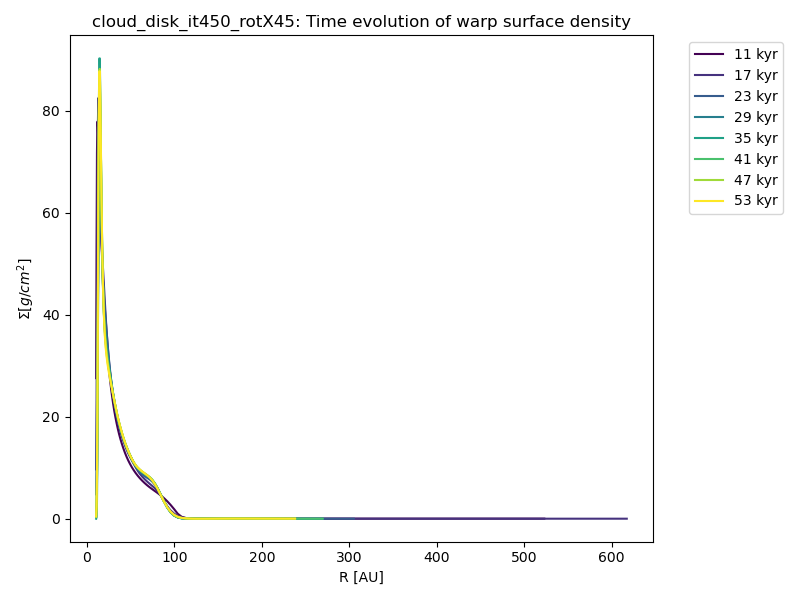
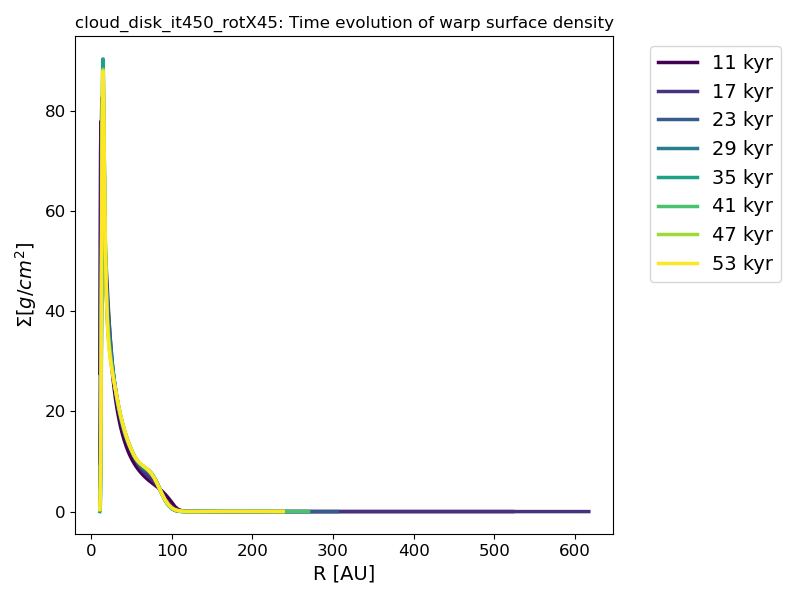
Mdotnet plots + paper-ready plot formatting

diff --git a/accretion.py b/accretion.py
@@ -7,6 +7,7 @@ from read import get_domain_spherical, get_data, load_par_file, get_param_value
 from analysis import calc_cell_volume, calc_mass, sph_to_cart, calc_simtime
 from check_mass import surf_dens_profile
 from mpl_toolkits.axes_grid1.inset_locator import inset_axes, mark_inset
+import matplotlib.colors as colors
 import astropy.constants as c
 import pandas as pd
 au = c.au.cgs.value
@@ -16,6 +17,14 @@ Mstar = 0.7 * Msun        # Mass of the primary star in IRAS 04125+2902 (Barbe
 dt = 1.87e7               # Timestep length of simulations in sec
 ninterm = 200             # Total number of timesteps between outputs in FARGO simulations
 stoky = 3.156e7 * 1e3     # 1 kyr in sec
+
+
+# Global plot formatting 
+plt.rcParams['lines.linewidth'] = 2.5
+plt.rcParams['axes.labelsize'] = 14     # x/y label size
+plt.rcParams['xtick.labelsize'] = 12     # x-tick label size
+plt.rcParams['ytick.labelsize'] = 12     # y-tick label size
+plt.rcParams['legend.fontsize'] = 10     # legend font size
 
 
 def scale_height(r, h0, R0, f):
@@ -359,7 +368,7 @@ def main():
     plt.savefig(f'{fig_imgs}/logMdot_vs_t_all_radii_all_zmax.png')
     plt.show()
 
-    # Defining subplots to plot inward accretion
+    # Defining subplots to plot outward accretion
     fig, axes = plt.subplots(2, 2, figsize=(8,6))
     axes = axes.flatten()
     plot_counter=0
@@ -410,6 +419,60 @@ def main():
     fig.suptitle(f"{sim_name}: Outward flux", fontsize=10, y=0.95)  
     fig.tight_layout()
     plt.savefig(f'{fig_imgs}/logMoutdot_vs_t_all_radii_all_zmax.png')
+    plt.show()
+
+
+    # Defining subplots to plot net accretion
+    fig, axes = plt.subplots(2, 2, figsize=(8,6))
+    axes = axes.flatten()
+    plot_counter=0
+    
+    for r_acc, r_acc_id in r_for_acc.items():
+
+        Mdot_net_allzmax = {}
+        Hc = scale_height(r_acc, h0, R0, f)
+        print(r_acc/au, Hc/au)
+
+        for z_scale in zmax_array:
+
+            print(z_scale)
+            zmax = z_scale * Hc         # Defining max_height for scale height at given radius
+
+            # Defining zmax_labels
+            z = r_acc * np.cos(domains["theta"])      # Disk heights at given radius
+            theta_mask = np.abs(z) <= zmax            # Boolean mask selecting only polar angles within max_height so that we ignore cloudlet
+            theta_sel = domains["theta"][theta_mask]
+            theta_sel_min, theta_sel_max = np.min(np.round(np.degrees(theta_sel), 1)), np.max(np.round(np.degrees(theta_sel), 1))
+            # zmax_labels[zmax] = fr"{int(zmax/Hc)}Hc ({theta_sel_min}$\degree$-{theta_sel_max}$\degree$)"
+            zmax_labels[zmax] = fr"{int(zmax/Hc)}Hc"
+
+            dotM_net_allit = []          # Outward accretion rates for given radius and given scale height at every 10 iters
+            for i in range(len(allit_years)):
+
+                dotM_net_z, _, _ = calc_accretion(rho_allit[i], vrad_allit[i], domains["theta"], r_acc, r_acc_id, domains["phi"], zmax, Msun)
+                dotM_net_allit.append(dotM_net_z)
+
+            dotM_net_allit = np.asarray(dotM_net_allit)
+
+            # Adding time evolution of accretion rates to corresponding max height value in the dictionary
+            Mdot_net_allzmax[zmax] = dotM_net_allit
+
+        # Plotting the outward mass fluxes for all max heights at given radius
+        for key, value in Mdot_net_allzmax.items():
+            if int(r_acc/au) == 10:
+                axes[plot_counter].plot(allit_years, value, label=f'{zmax_labels[key]}')
+            else:
+                axes[plot_counter].plot(allit_years, np.log10(value), label=f'{zmax_labels[key]}')
+        axes[plot_counter].set_xlabel(r"Time [kyr]")
+        axes[plot_counter].set_ylabel(r"$\mathrm{\log\dot{M}}$ [$M_{sun}$/yr]")
+        axes[plot_counter].set_title(fr"R = {int(r_acc/au)} AU")
+        handles, labels = axes[plot_counter].get_legend_handles_labels()
+        plot_counter += 1
+       
+    fig.legend(handles, labels, loc="upper center", ncol=6, frameon=False)
+    fig.suptitle(f"{sim_name}: Net flux", fontsize=10, y=0.95)  
+    fig.tight_layout()
+    plt.savefig(f'{fig_imgs}/logMnetdot_vs_t_all_radii_all_zmax.png')
     plt.show()
 
 
@@ -523,6 +586,55 @@ def main():
     plt.show()
 
 
+    # Defining subplots to plot net accretion
+    fig, axes = plt.subplots(2, 2, figsize=(8,6))
+    axes = axes.flatten()
+    plot_counter=0
+    
+    for r_acc, r_acc_id in r_for_acc.items():
+
+        Mdot_net_allzrange = {}
+        Hc = scale_height(r_acc, h0, R0, f)
+        print(r_acc/au, Hc/au)
+
+        for z_scale_i in range(len(zmax_array)):
+
+            zmax = zmax_array[z_scale_i] * Hc         # Defining max_height for scale height at given radius
+            zmin = zmin_array[z_scale_i] * Hc         # Defining min_height for scale height at given radius
+
+            # Defining zrange_labels
+            zrange_labels[zmin] = fr"{int(zmin/Hc)}Hc - {int(zmax/Hc)}Hc"
+
+            dotM_net_allit = []          # Net accretion rates for given radius and given scale height at every 10 iters
+            for i in range(len(allit_years)):
+
+                dotM_net_z, _, _ = calc_accretion(rho_allit[i], vrad_allit[i], domains["theta"], r_acc, r_acc_id, domains["phi"], zmax, Msun, zmin)
+                dotM_net_allit.append(dotM_net_z)
+
+            dotM_net_allit = np.asarray(dotM_net_allit)
+
+            # Adding time evolution of accretion rates to corresponding max height value in the dictionary
+            Mdot_net_allzrange[zmin] = dotM_net_allit
+
+        # Plotting the net mass fluxes for all max heights at given radius
+        for key, value in Mdot_net_allzrange.items():
+            if int(r_acc/au) == 10:
+                axes[plot_counter].plot(allit_years, value, label=f'{zrange_labels[key]}')
+            else:
+                axes[plot_counter].plot(allit_years, np.log10(value), label=f'{zrange_labels[key]}')
+        axes[plot_counter].set_xlabel(r"Time [kyr]")
+        axes[plot_counter].set_ylabel(r"$\mathrm{\log\dot{M}}$ [$M_{sun}$/yr]")
+        axes[plot_counter].set_title(fr"R = {int(r_acc/au)} AU")
+        handles, labels = axes[plot_counter].get_legend_handles_labels()
+        plot_counter += 1
+       
+    fig.legend(handles, labels, loc="upper center", ncol=6, frameon=False)
+    fig.suptitle(f"{sim_name}: Net flux between diff heights", fontsize=10, y=0.95)  
+    fig.tight_layout()
+    plt.savefig(f'{fig_imgs}/logMnetdot_vs_t_all_radii_all_zrange.png')
+    plt.show()
+
+
     ########################## 2D accretion across radii and iteration times #######################
 
 
@@ -567,8 +679,10 @@ def main():
     Xtemp, Ytemp = np.meshgrid(np.log10(domains["r"]/au), allit_years)
     U = np.sign(Mdot_net_2D)  # horizontal direction (positive = outward)
     V = np.zeros_like(U)      # no vertical component
+    arrow_cmap = plt.cm.bwr   # blue–white–red
+    arrow_norm = colors.Normalize(vmin=-1, vmax=1)
     step = (slice(None, None, 5), slice(None, None, 10))  # Downsampling to avoid clutter
-    q1 = ax3.quiver(Xtemp[step], Ytemp[step], U[step], V[step], color='black', scale=20)
+    q1 = ax3.quiver(Xtemp[step], Ytemp[step], U[step], V[step], U[step], cmap=arrow_cmap, norm=arrow_norm, scale=20)
     
     fig.tight_layout()
     plt.savefig(f'{fig_imgs}/logMdot_2D.png', bbox_inches="tight")

diff --git a/time_evol.py b/time_evol.py
@@ -21,12 +21,19 @@ dt = 1.87e7               # Timestep length of simulations in sec
 ninterm = 200             # Total number of timesteps between outputs in FARGO simulations
 stoky = 3.156e7 * 1e3     # 1 kyr in sec
 
+# Global plot formatting 
+plt.rcParams['lines.linewidth'] = 2.5
+plt.rcParams['axes.labelsize'] = 14     # x/y label size
+plt.rcParams['xtick.labelsize'] = 12     # x-tick label size
+plt.rcParams['ytick.labelsize'] = 12     # y-tick label size
+plt.rcParams['legend.fontsize'] = 14     # legend font size
+
 
 def main():
 
 
-    # folder = Path("../cloud_disk_it450_rotX45/")                        # Folder with the FARGO output files
-    folder = Path("../fargo3d/outputs/cloud_disk_it450_rotX45/")          # Folder with the FARGO output files (Binac2)
+    folder = Path("../cloud_disk_it450_rotX45/")                        # Folder with the FARGO output files
+    # folder = Path("../fargo3d/outputs/cloud_disk_it450_rotX45/")          # Folder with the FARGO output files (Binac2)
     fig_imgs = Path("cloud_disk_it450_rotX45/imgs/")                      # Folder to save images    
     iter_total = 450                                     # FARGO snapshot
 
@@ -264,7 +271,7 @@ def main():
         ax.add_collection3d(poly)
 
     ax.view_init(elev=35, azim=-31)
-    ax.set_box_aspect([3,1,1])
+    ax.set_box_aspect([4,1,1])
     ax.set_xlabel('Time [kyr]')
     ax.set_ylabel('R [AU]')
     ax.set_zlabel('Warp inclination [°]')
@@ -303,7 +310,7 @@ def main():
         ax.add_collection3d(poly)
 
     ax.view_init(elev=35, azim=-31)
-    ax.set_box_aspect([3,1,1])
+    ax.set_box_aspect([4,1,1])
     ax.set_xlabel('Time [kyr]')
     ax.set_ylabel('R [AU]')
     ax.set_zlabel('Warp precession [°]')
